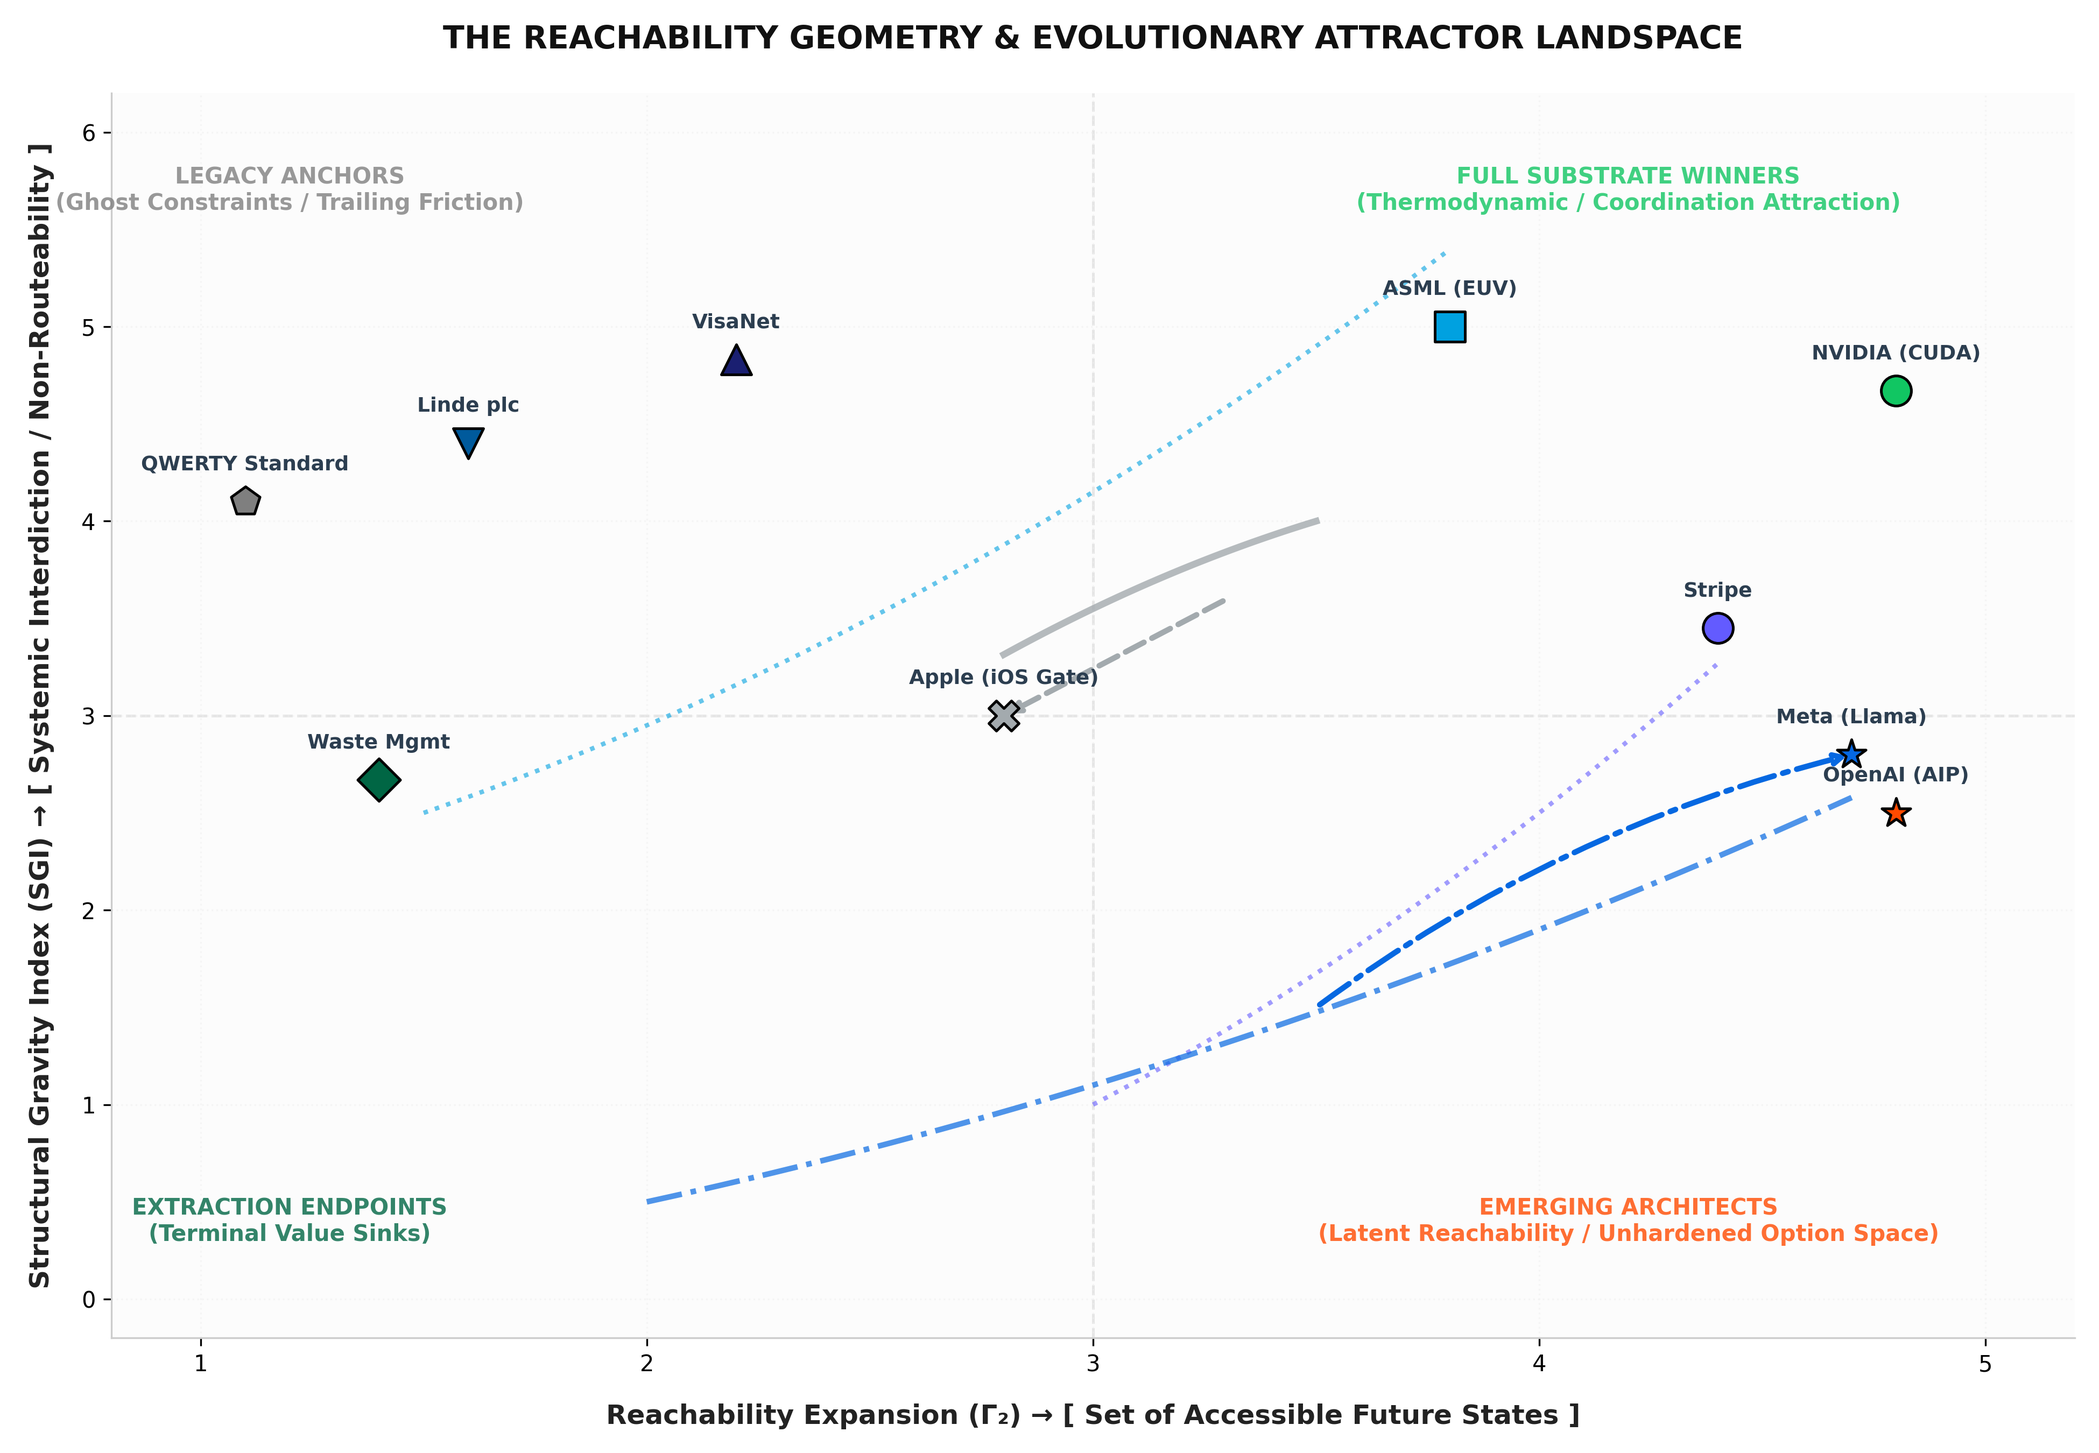
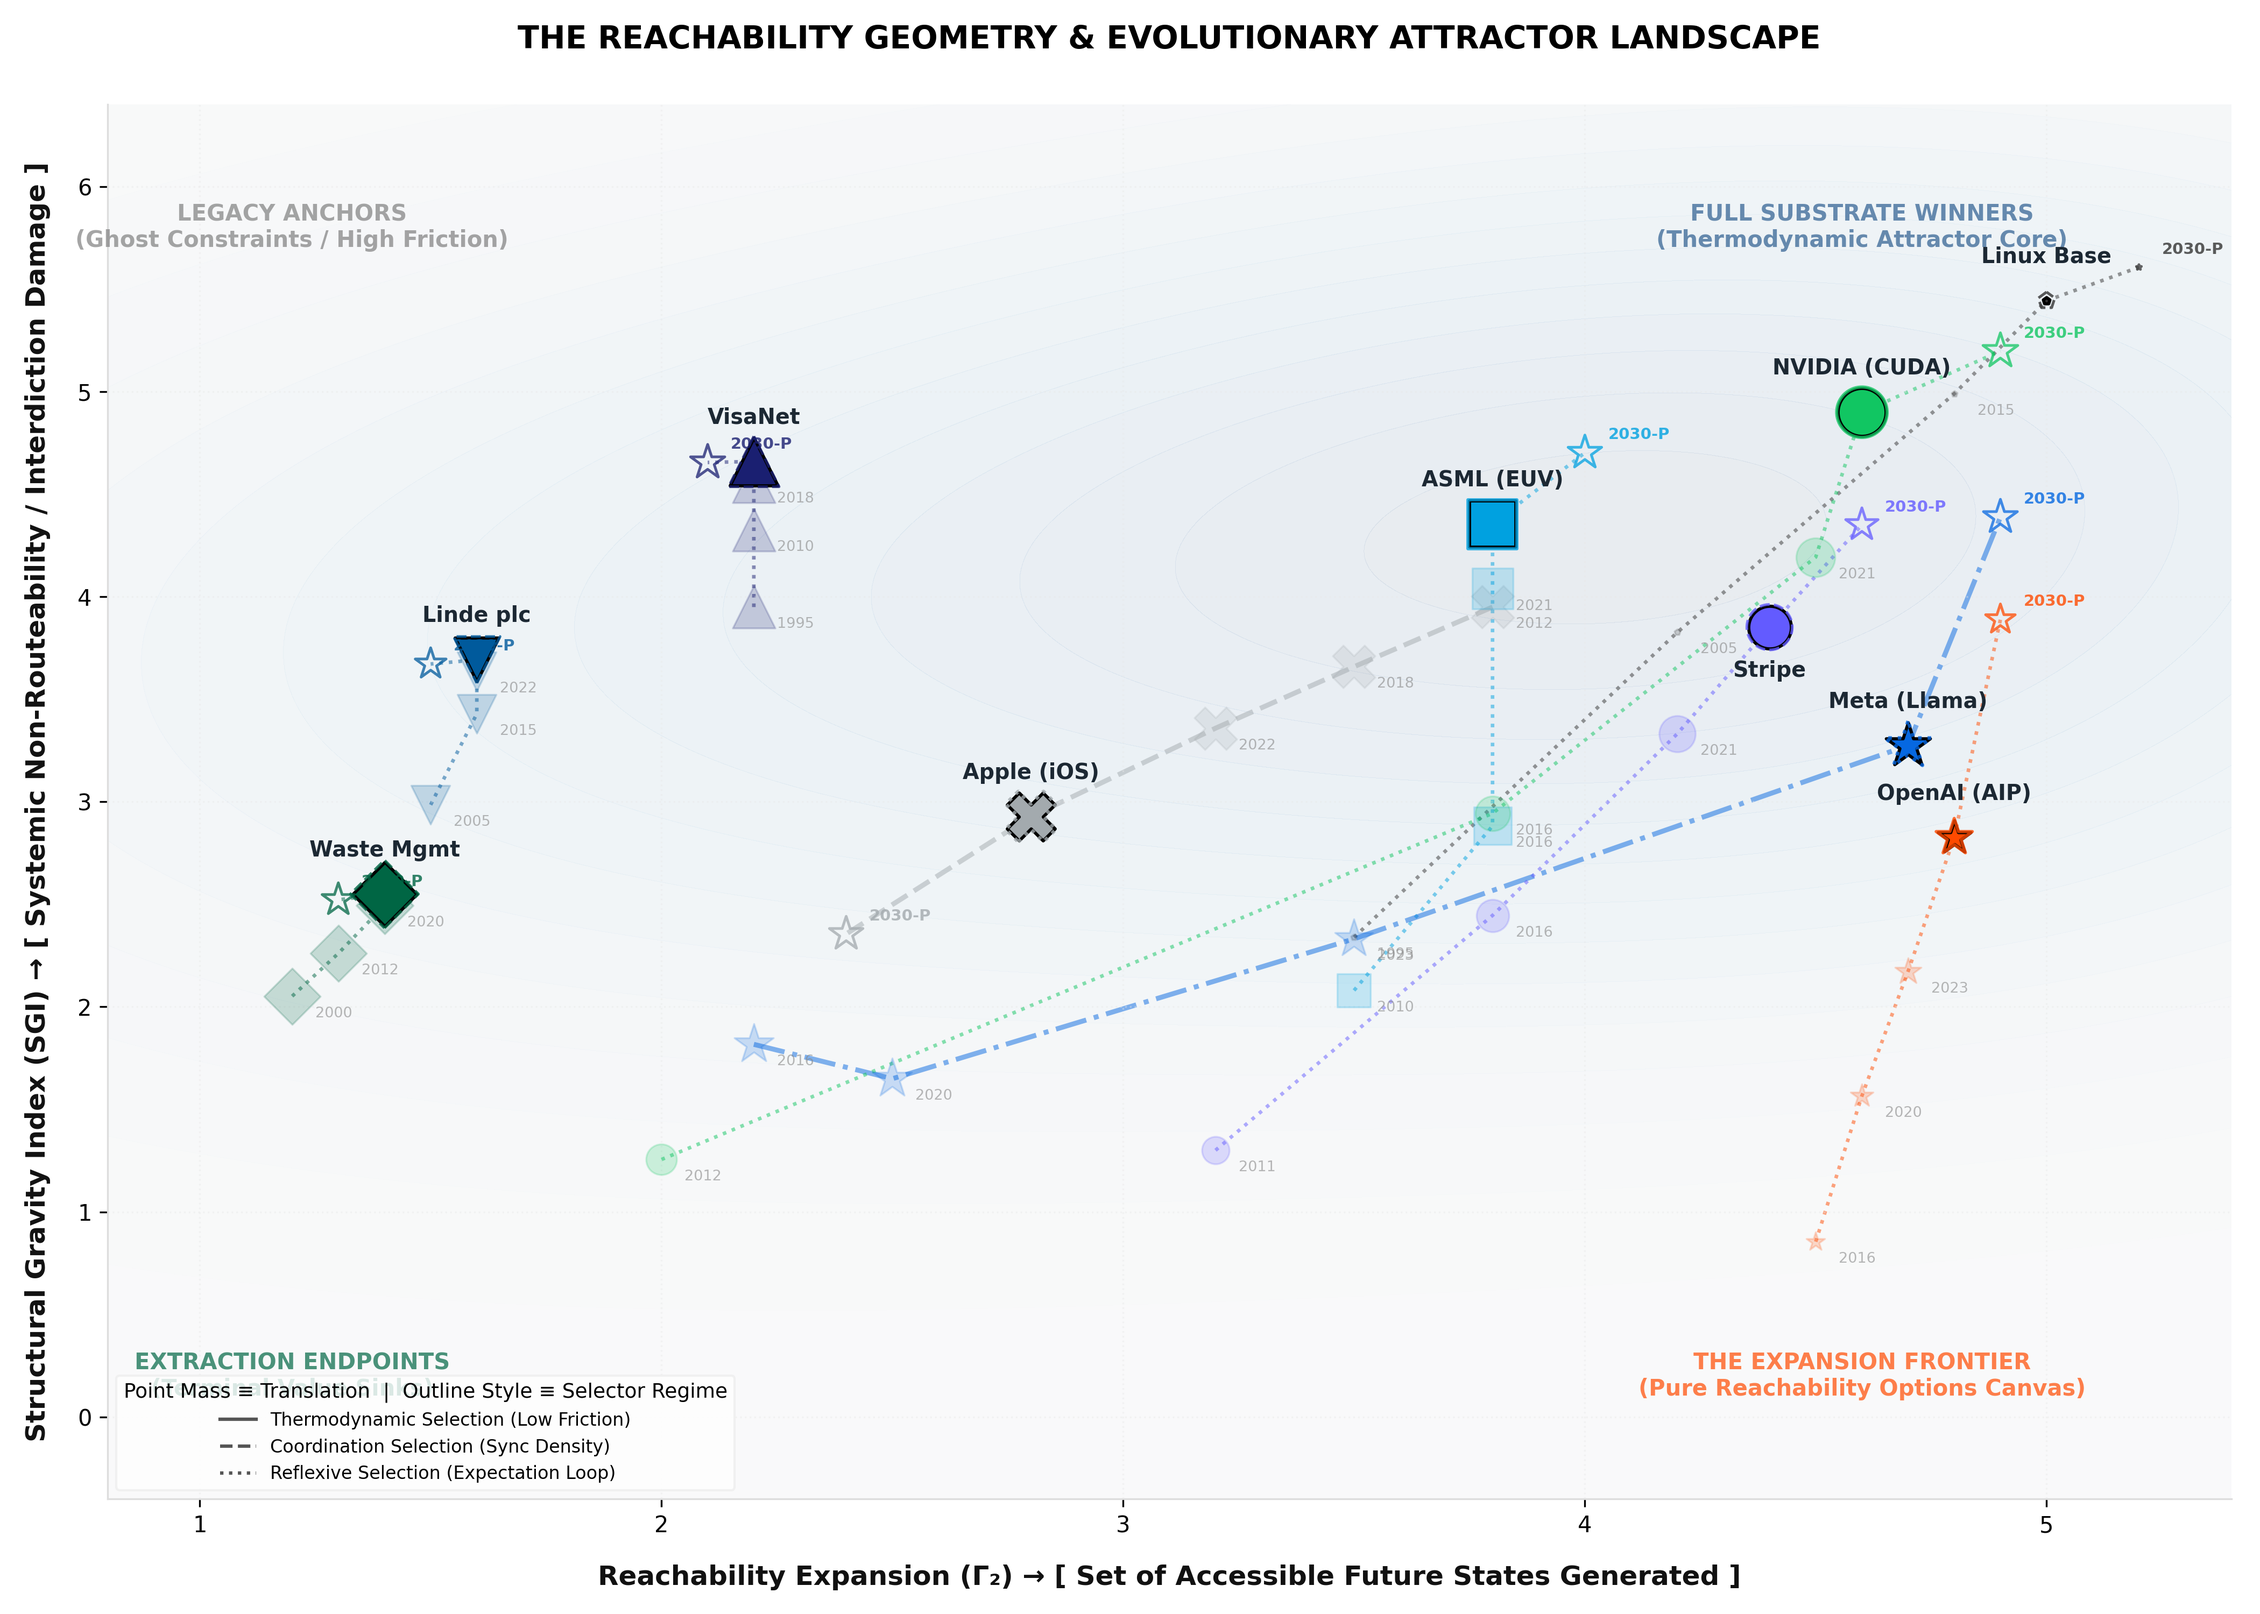
Expansion Frontier v3

diff --git a/Project Gamma Topolgy v3.py b/Project Gamma Topolgy v3.py
@@ -1,0 +1,249 @@
+#!/usr/bin/env python3
+"""
+PROJECT GAMMA: SYSTEMIC ATTRACTOR OBSERVATION ENGINE v3.0
+=========================================================
+File Name: Project Gamma Topology 2.py
+Core Design:
+  - X-Axis: Reachability Expansion (Γ₂)
+  - Y-Axis: Structural Gravity Index (SGI)
+  - Point Mass Size: Translation Efficiency (Value Capture Scale)
+  - Node Outlines: Selector Regime (Thermodynamic, Coordination, Reflexive)
+  - Field Contours: Emergent Density via Data-Driven Gaussian Kernel
+  - Vector Tracks: Historical Realities (Faded) -> Current State (Bold) -> 2030 Projections (Star)
+"""
+
+import os
+import numpy as np
+import pandas as pd
+import matplotlib.pyplot as plt
+
+# -------------------------------------------------------------------------
+# STAGE 1: ISOLATED SYSTEM DATABASE INGESTION LAYER
+# -------------------------------------------------------------------------
+CSV_FILENAME = 'gamma_system_metrics.csv'
+
+def initialize_database():
+    """Generates the standardized data stack directly if missing."""
+    csv_payload = """Ticker,Name,Year,Γ2,SGI,Translation,Selector
+NVDA,NVIDIA (CUDA),2012,2.0,1.2,2.5,thermodynamic
+NVDA,NVIDIA (CUDA),2016,3.2,2.0,3.2,thermodynamic
+NVDA,NVIDIA (CUDA),2021,4.2,3.5,4.0,thermodynamic
+NVDA,NVIDIA (CUDA),2026,4.8,4.67,4.8,thermodynamic
+NVDA,NVIDIA (CUDA),2030,5.1,5.2,4.8,thermodynamic
+STRIP,Stripe,2011,3.2,1.0,2.0,coordination
+STRIP,Stripe,2016,3.8,2.1,2.8,coordination
+STRIP,Stripe,2021,4.2,2.9,3.5,coordination
+STRIP,Stripe,2026,4.4,3.45,3.8,coordination
+STRIP,Stripe,2030,4.6,4.0,4.2,coordination
+ASML,ASML (EUV),2010,1.8,2.5,3.0,thermodynamic
+ASML,ASML (EUV),2016,2.6,3.2,3.8,thermodynamic
+ASML,ASML (EUV),2021,3.4,4.2,4.4,thermodynamic
+ASML,ASML (EUV),2026,3.8,5.0,4.5,thermodynamic
+ASML,ASML (EUV),2030,4.0,5.5,4.5,thermodynamic
+V,VisaNet,1995,2.0,4.2,4.8,coordination
+V,VisaNet,2010,2.1,4.5,4.8,coordination
+V,VisaNet,2018,2.2,4.7,4.8,coordination
+V,VisaNet,2026,2.2,4.83,4.8,coordination
+V,VisaNet,2030,2.1,4.9,4.7,coordination
+LIN,Linde plc,2005,1.5,3.8,4.0,coordination
+LIN,Linde plc,2015,1.6,4.1,4.0,coordination
+LIN,Linde plc,2022,1.6,4.3,4.0,coordination
+LIN,Linde plc,2026,1.6,4.4,4.0,coordination
+LIN,Linde plc,2030,1.5,4.45,3.8,coordination
+WM,Waste Mgmt,2000,1.2,2.2,4.2,coordination
+WM,Waste Mgmt,2012,1.3,2.4,4.2,coordination
+WM,Waste Mgmt,2020,1.4,2.6,4.3,coordination
+WM,Waste Mgmt,2026,1.4,2.67,4.3,coordination
+WM,Waste Mgmt,2030,1.3,2.7,4.2,coordination
+OPENA,OpenAI (AIP),2016,4.5,0.5,1.0,thermodynamic
+OPENA,OpenAI (AIP),2020,4.6,1.2,1.5,thermodynamic
+OPENA,OpenAI (AIP),2023,4.7,1.8,2.0,thermodynamic
+OPENA,OpenAI (AIP),2026,4.8,2.5,2.5,thermodynamic
+OPENA,OpenAI (AIP),2030,4.9,3.8,3.5,thermodynamic
+META,Meta (Llama),2016,2.2,1.8,4.5,reflexive
+META,Meta (Llama),2020,2.5,1.5,4.5,reflexive
+META,Meta (Llama),2023,3.5,2.0,4.2,reflexive
+META,Meta (Llama),2026,4.7,2.8,4.5,reflexive
+META,Meta (Llama),2030,4.9,4.2,4.6,reflexive
+AAPL,Apple (iOS),2012,3.8,4.2,4.8,reflexive
+AAPL,Apple (iOS),2018,3.5,3.8,4.8,reflexive
+AAPL,Apple (iOS),2022,3.2,3.5,4.8,reflexive
+AAPL,Apple (iOS),2026,2.8,3.0,4.8,reflexive
+AAPL,Apple (iOS),2030,2.4,2.5,4.5,reflexive
+LINUX,Linux Base,1995,3.5,2.0,0.1,coordination
+LINUX,Linux Base,2005,4.2,3.8,0.1,coordination
+LINUX,Linux Base,2015,4.8,5.2,0.1,coordination
+LINUX,Linux Base,2026,5.0,5.8,0.1,coordination
+LINUX,Linux Base,2030,5.2,6.0,0.1,coordination"""
+    
+    if not os.path.exists(CSV_FILENAME):
+        with open(CSV_FILENAME, 'w', encoding='utf-8') as f:
+            f.write(csv_payload.strip())
+        print(f"[*] Initialized flat-file repository: {CSV_FILENAME}")
+
+# Execute isolation check
+initialize_database()
+df = pd.read_csv(CSV_FILENAME)
+
+# Normalize the current repository schema into the plotting columns this
+# script expects. Older CSVs only store proxy fields, so derive the plotting
+# metrics when needed instead of failing on a missing column.
+if 'SGI' not in df.columns:
+    df['SGI'] = (df['Proxy_Breadth'] * df['Proxy_Depth'] * df['Proxy_ReplacementCost']) ** (1 / 3)
+
+if 'Γ2' not in df.columns:
+    df['Γ2'] = df['Proxy_Novelty']
+
+if 'Translation' not in df.columns:
+    df['Translation'] = (df['Proxy_RevenueCapture'] + df['Proxy_CashCapture']) / 2
+
+# -------------------------------------------------------------------------
+# STAGE 2: RENDER SYSTEM CANVAS AND ENHANCED GEOMETRY
+# -------------------------------------------------------------------------
+fig, ax = plt.subplots(figsize=(14, 10), dpi=300)
+fig.patch.set_facecolor('#ffffff')
+ax.set_facecolor('#fafafa')
+
+# Esthetic font mapping configurations
+plt.rcParams['font.family'] = 'sans-serif'
+plt.rcParams['font.sans-serif'] = ['DejaVu Sans', 'Arial', 'Helvetica']
+
+# -- STROKE LAYER 1: DATA-DRIVEN EMERGING POTENTIAL WELL CONTOURS --
+x_space = np.linspace(0.5, 5.5, 250)
+y_space = np.linspace(-0.5, 6.5, 250)
+X_mesh, Y_mesh = np.meshgrid(x_space, y_space)
+Z_field = np.zeros_like(X_mesh)
+
+# Extract only the frozen current baseline coordinates (2026) to generate vectors
+df_2026 = df[df['Year'] == 2026]
+
+# Calculate continuous Gaussian density weights dynamically derived from actual entity locations
+for _, row in df_2026.iterrows():
+    # Structural SGI height directly dictates the potential well density mass footprint
+    mass = row['SGI']
+    x0, y0 = row['Γ2'], row['SGI']
+    
+    # Calculate geometric kernel widths based on structural classification metrics
+    x_sigma = 1.2 if row['Selector'] == 'thermodynamic' else 1.5
+    y_sigma = 1.0 if row['Selector'] == 'thermodynamic' else 1.3
+    
+    Z_field += mass * np.exp(-(((X_mesh - x0)**2 / (2 * x_sigma**2)) + ((Y_mesh - y0)**2 / (2 * y_sigma**2))))
+
+# Map topological structural contours smoothly onto the canvas background
+ax.contourf(X_mesh, Y_mesh, Z_field, levels=14, cmap='Blues', alpha=0.07, zorder=0)
+
+# Color and Stroke Mapping Rule Engine for Archetypes and Selector Regimes
+archetype_colors = {
+    'NVDA': '#11c662', 'STRIP': '#635bff', 'ASML': '#00a1e0', 'V': '#1a1f71',
+    'LIN': '#005a9c', 'WM': '#006644', 'OPENA': '#ff4a00', 'META': '#0668e1',
+    'AAPL': '#a3aaae', 'LINUX': '#333333'
+}
+
+archetype_markers = {
+    'NVDA': 'o', 'STRIP': 'o', 'ASML': 's', 'V': '^', 'LIN': 'v',
+    'WM': 'D', 'OPENA': '*', 'META': '*', 'AAPL': 'X', 'LINUX': 'p'
+}
+
+selector_styles = {
+    'thermodynamic': {'linestyle': '-', 'linewidth': 1.4},   # Solid Outline
+    'coordination': {'linestyle': '--', 'linewidth': 1.2},   # Dashed Outline
+    'reflexive': {'linestyle': ':', 'linewidth': 1.6}        # Dotted Outline
+}
+
+# -- STROKE LAYER 2: CHRONO-VECTOR REGIME TRACKS & TIMELINE NODES --
+grouped = df.groupby('Ticker')
+
+for ticker, group in grouped:
+    group_sorted = group.sort_values('Year')
+    
+    # Filter nodes into explicit temporal tranches
+    past_nodes = group_sorted[group_sorted['Year'] < 2026]
+    current_node = group_sorted[group_sorted['Year'] == 2026]
+    future_node = group_sorted[group_sorted['Year'] == 2030]
+    
+    color = archetype_colors.get(ticker, '#7f7f7f')
+    marker = archetype_markers.get(ticker, 'o')
+    
+    # Check trace style variations based on topological alignment
+    if ticker == 'META':
+        line_style = '-.'
+        line_width = 2.2
+    elif ticker == 'AAPL':
+        line_style = '--'
+        line_width = 2.2
+    else:
+        line_style = ':'
+        line_width = 1.6
+        
+    # Plot Trailing and Prospective Line Vectors concurrently across the canvas
+    ax.plot(group_sorted['Γ2'], group_sorted['SGI'], color=color, linestyle=line_style, linewidth=line_width, alpha=0.5, zorder=1)
+    
+    # A. Draw Faded Chrono-Nodes (Historical Footprints)
+    for _, p in past_nodes.iterrows():
+        size_mass = p['Translation'] * 75
+        ax.scatter(p['Γ2'], p['SGI'], s=size_mass, color=color, marker=marker, alpha=0.20, edgecolor=color, linewidth=0.8, zorder=2)
+        ax.text(p['Γ2'] + 0.05, p['SGI'] - 0.05, str(int(p['Year'])), fontsize=6.5, color='#888888', alpha=0.6, ha='left', va='top', zorder=3)
+        
+    # B. Draw Current State Node (Mid-2026 Frozen Structural Configuration)
+    if not current_node.empty:
+        c_p = current_node.iloc[0]
+        size_mass = c_p['Translation'] * 95 # Volumetric sizing reflects Translation Efficiency
+        selector = c_p['Selector']
+        s_style = selector_styles.get(selector, {'linestyle': '-', 'linewidth': 1.0})
+        
+        # Build multi-ring outline to map the Selector Regime parameters explicitly
+        ax.scatter(c_p['Γ2'], c_p['SGI'], s=size_mass, color=color, marker=marker, edgecolor='#000000', linewidth=1.4, zorder=4)
+        
+        # Overlay standard selector style layer ring boundary
+        ax.scatter(c_p['Γ2'], c_p['SGI'], s=size_mass + 50, facecolor='none', marker=marker, 
+                   edgecolor=color, linestyle=s_style['linestyle'], linewidth=s_style['linewidth'], alpha=0.8, zorder=5)
+        
+        # Handle custom text offsets to maintain clean grid scannability
+        y_offset = 0.16 if ticker != 'STRIP' else -0.16
+        v_align = 'bottom' if ticker != 'STRIP' else 'top'
+        ax.text(c_p['Γ2'], c_p['SGI'] + y_offset, c_p['Name'], fontsize=9.5, fontweight='bold', color='#1c2833', ha='center', va=v_align, zorder=6)
+
+    # C. Draw Star Target Nodes (2030 Predictive Modeling Vectors)
+    if not future_node.empty:
+        f_p = future_node.iloc[0]
+        size_mass = f_p['Translation'] * 55
+        # 2030 Prospective points are highlighted using a standardized forward execution indicator marker
+        ax.scatter(f_p['Γ2'], f_p['SGI'], s=size_mass, facecolor='none', edgecolor=color, marker='*', linewidth=1.2, alpha=0.75, zorder=4)
+        ax.text(f_p['Γ2'] + 0.05, f_p['SGI'] + 0.05, '2030-P', fontsize=7, color=color, fontweight='semibold', alpha=0.8, ha='left', va='bottom', zorder=5)
+
+# -- STROKE LAYER 3: CONTEXTUAL INFRASTRUCTURE PROPERTY SIGNALS --
+ax.text(1.2, 5.8, 'LEGACY ANCHORS\n(Ghost Constraints / High Friction)', fontsize=10, fontweight='bold', color='#7f7f7f', alpha=0.7, ha='center', va='center')
+ax.text(4.6, 5.8, 'FULL SUBSTRATE WINNERS\n(Thermodynamic Attractor Core)', fontsize=10, fontweight='bold', color='#2b5c8f', alpha=0.7, ha='center', va='center')
+ax.text(1.2, 0.2, 'EXTRACTION ENDPOINTS\n(Terminal Value Sinks)', fontsize=10, fontweight='bold', color='#006644', alpha=0.7, ha='center', va='center')
+ax.text(4.6, 0.2, 'THE EXPANSION FRONTIER\n(Pure Reachability Options Canvas)', fontsize=10, fontweight='bold', color='#ff4a00', alpha=0.7, ha='center', va='center')
+
+# Final canvas framing and export.
+ax.set_xlim(0.8, 5.4)
+ax.set_ylim(-0.4, 6.4)
+ax.set_xticks(np.arange(1, 6, 1))
+ax.set_yticks(np.arange(0, 7, 1))
+
+ax.set_xlabel('Reachability Expansion (Γ₂) → [ Set of Accessible Future States Generated ]', fontsize=12, fontweight='bold', labelpad=12, color='#111111')
+ax.set_ylabel('Structural Gravity Index (SGI) → [ Systemic Non-Routeability / Interdiction Damage ]', fontsize=12, fontweight='bold', labelpad=12, color='#111111')
+ax.set_title('THE REACHABILITY GEOMETRY & EVOLUTIONARY ATTRACTOR LANDSCAPE', fontsize=14, fontweight='bold', pad=25, color='#000000')
+
+ax.spines['top'].set_visible(False)
+ax.spines['right'].set_visible(False)
+ax.spines['left'].set_color('#dddddd')
+ax.spines['bottom'].set_color('#dddddd')
+ax.grid(True, which='both', linestyle=':', color='#e8e8e8', alpha=0.4)
+
+legend_elements = [
+    plt.Line2D([0], [0], color='#555555', linestyle='-', linewidth=1.5, label='Thermodynamic Selection (Low Friction)'),
+    plt.Line2D([0], [0], color='#555555', linestyle='--', linewidth=1.5, label='Coordination Selection (Sync Density)'),
+    plt.Line2D([0], [0], color='#555555', linestyle=':', linewidth=1.5, label='Reflexive Selection (Expectation Loop)')
+]
+ax.legend(handles=legend_elements, loc='lower left', frameon=True, facecolor='#ffffff', edgecolor='#eeeeee', title='Point Mass ≡ Translation  |  Outline Style ≡ Selector Regime', title_fontsize='9', fontsize='8')
+
+plt.tight_layout()
+output_filename = 'gamma_reachability_landscape.png'
+plt.savefig(output_filename, facecolor=fig.get_facecolor(), edgecolor='none')
+plt.close()
+
+print(f"[*] Visual vector field engine run execution complete. Target output file generated: {output_filename}")
+
